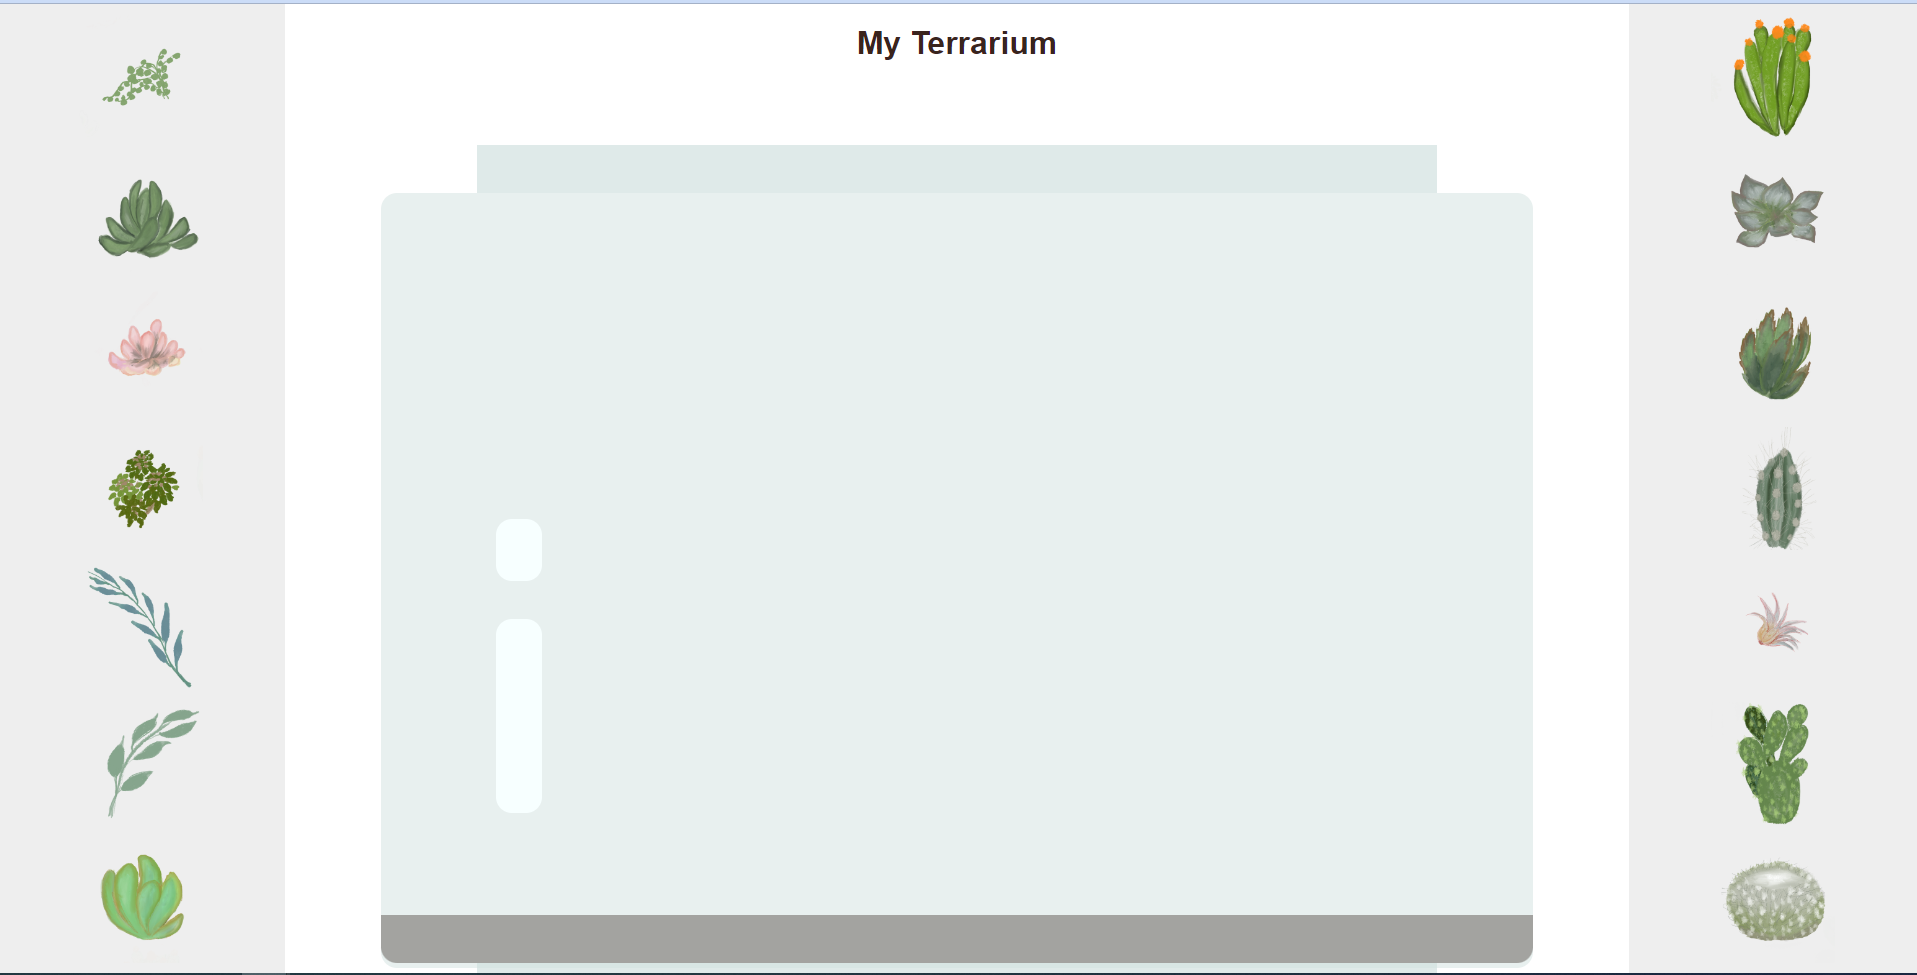
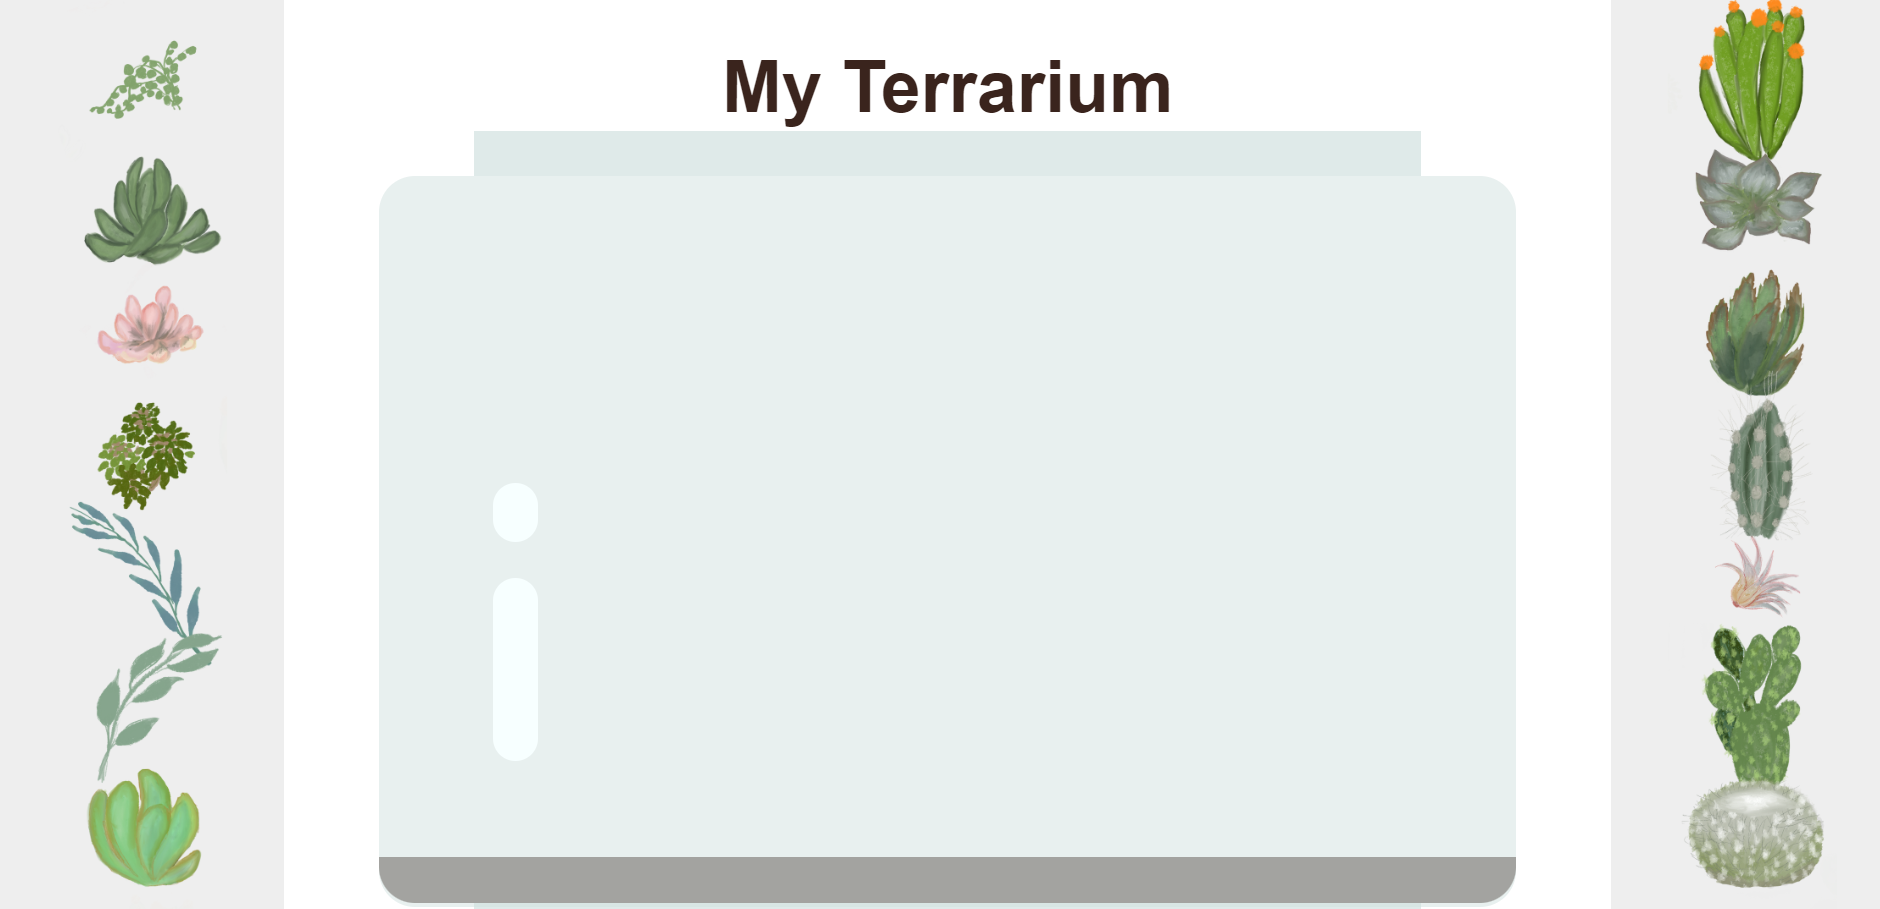
changing plant sizes

diff --git a/style.css b/style.css
@@ -5,7 +5,6 @@ body {
 h1 {
   color: #3a241d;
   text-align: center;
-
 }
 
 /*I used container class to not repeat myself. If there are common styling, I use class notation */
@@ -35,7 +34,6 @@ h1 {
 .plant-holder {
   position: relative;
   height: 13%;
-
 }
 
 .plant {
@@ -43,9 +41,8 @@ h1 {
   max-width: 100%;
   max-height: 100%;
   z-index: 2;
- 
+  transform: scale(1.5);
 }
-
 
 .jar-walls {
   height: 80%;

diff --git a/script.js b/script.js
@@ -57,7 +57,7 @@ plants.forEach((img) => {
 
 plants.forEach((img) => {
     img.addEventListener('mouseout', function () {
-        img.style.transform = "scale(1)";
+        img.style.transform = "scale(1.5)";
         img.style.transition = "transform 0.25s ease";
     });
 });
